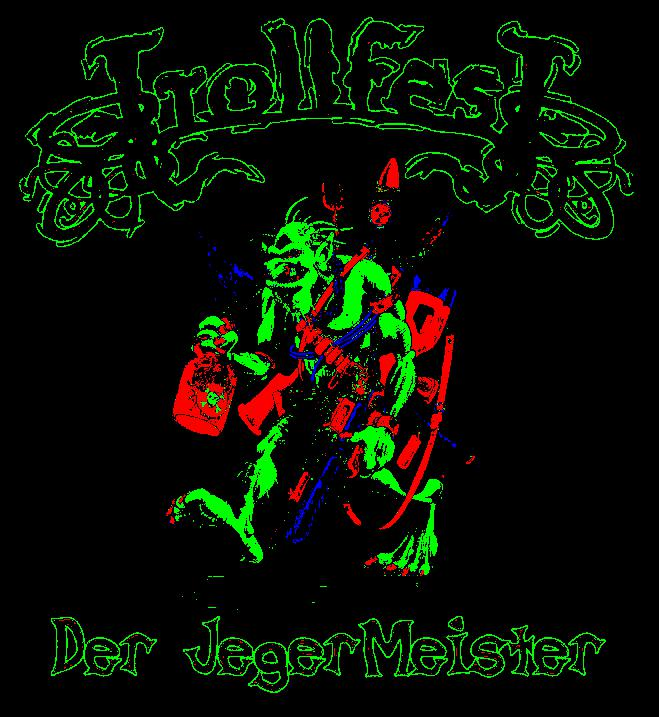
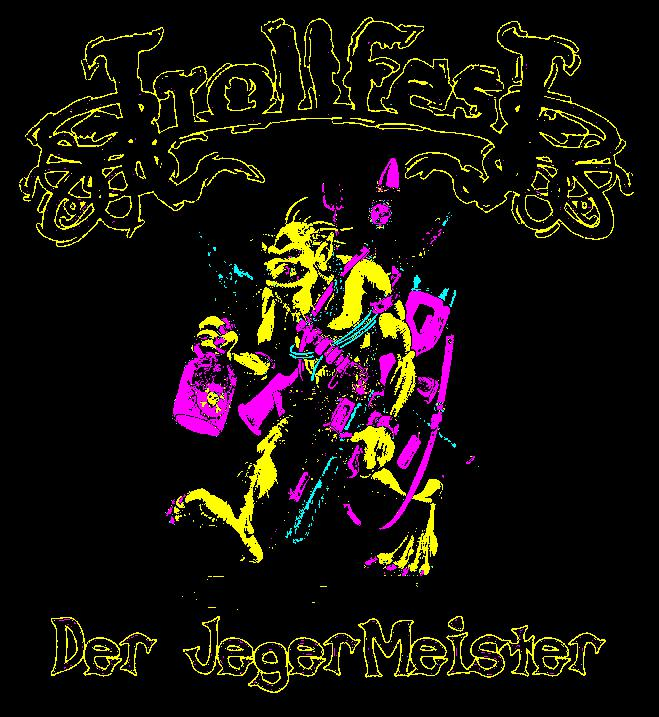
Added new functionality to dominant colour changer
Colour of pixels with a dominant colour component can now be changed to
any given colour.

diff --git a/Appropriation Art Exhibit/exhibit.py b/Appropriation Art Exhibit/exhibit.py
@@ -71,12 +71,10 @@ def checkDominantColor(pixel, targetComponentIndex, minThreshold):
     return canChange
 
 
-# Changes colour of each pixel to the dominant colour
-# component, above a given threshold
-def changeToDominantColor(img, chosenColorIndex, minThreshold):
+# Changes colour of the dominant colour component of each pixel
+# to a specified colour, above a given threshold
+def changeDominantColor(img, chosenColorIndex, minThreshold, targetColors):
     pixels = img.load()
-    targetColors = [RED, GREEN, BLUE]
-
     for x in range(getWidth(img)):
         for y in range(getHeight(img)):
             currentPixel = pixels[x,y]
@@ -87,29 +85,30 @@ def changeToDominantColor(img, chosenColorIndex, minThreshold):
 
 
 # Changes colour of any pixel in the image
-# that isn't purely red, green or blue to black
-def changeRestToBlack(img):
+# that isn't one of the specified colours to black
+def changeRestToBlack(img, targetColors):
     pixels = img.load()
     for x in range(0, getWidth(img)):
         for y in range(0, getHeight(img)):
             currentPixel = pixels[x,y]
-            if not (currentPixel == RED or
-                    currentPixel == GREEN or
-                    currentPixel == BLUE):
+            if currentPixel not in targetColors:
                 pixels[x,y] = BLACK
 
 
 # Changes pixels with a colour component above a given threshold to
-# be purely the colour component with the highest value, then
-# changes every other colour to black.
-def emphasiseColors(minThreshold=50, file="jegermeister.jpg"):
+# a specified colour, then changes every other colour to black.
+def replaceDominantColors(minThreshold=50, file="jegermeister.jpg"):
     img = getImage(file)
+    replacementForRed = (255, 0, 255)
+    replacementForGreen = (0, 255, 255)
+    replacementForBlue = (255, 255, 0)
+    targetColors = [replacementForRed, replacementForBlue, replacementForGreen]
+
     for i in range(NUMBER_OF_COLOR_COMPONENTS):
-        changeToDominantColor(img, i, minThreshold)
-    changeRestToBlack(img)
+        changeDominantColor(img, i, minThreshold, targetColors)
+
+    changeRestToBlack(img, targetColors)
     img.show()
-    newFileName = "emphasiseColors " + file
-    img.save(newFileName)
 
 
 # Randomly shuffles every single pixel in an image
@@ -117,9 +116,7 @@ def shufflePixels(file="sad.jpg"):
     img = getImage(file)
     getShuffledImage(img)
     img.show()
-    newFileName = "shufflePixels " + file
-    img.save(newFileName)
 
 
-emphasiseColors()
+replaceDominantColors()
 shufflePixels()
